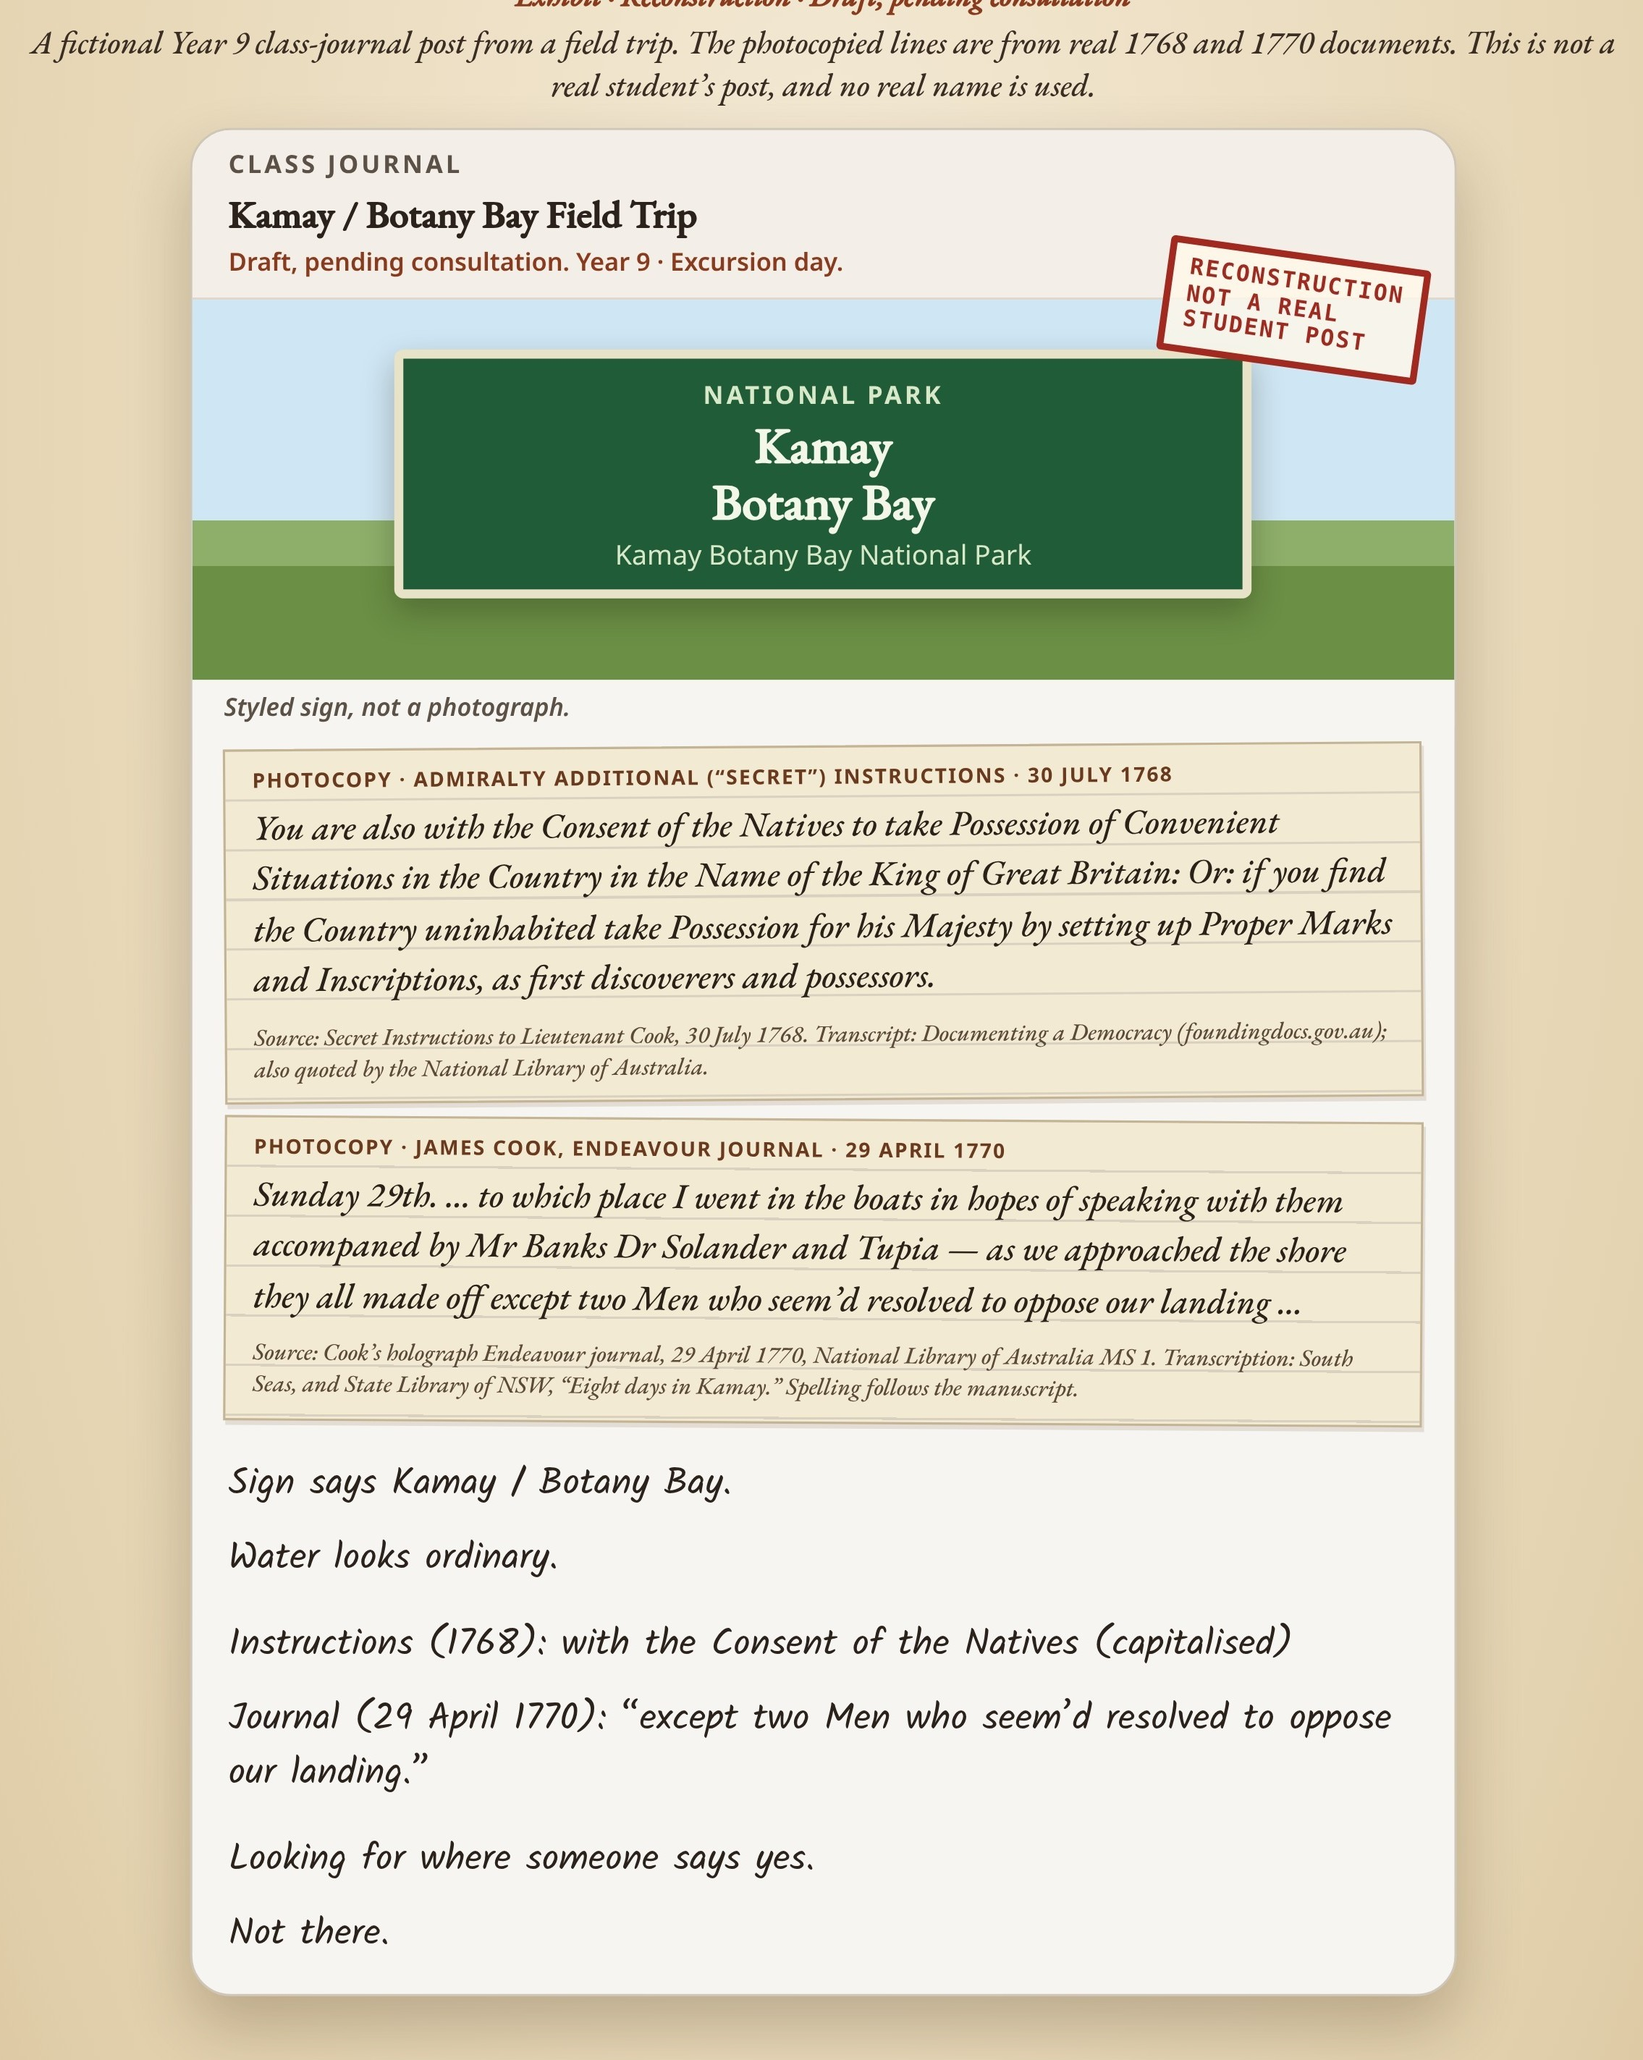
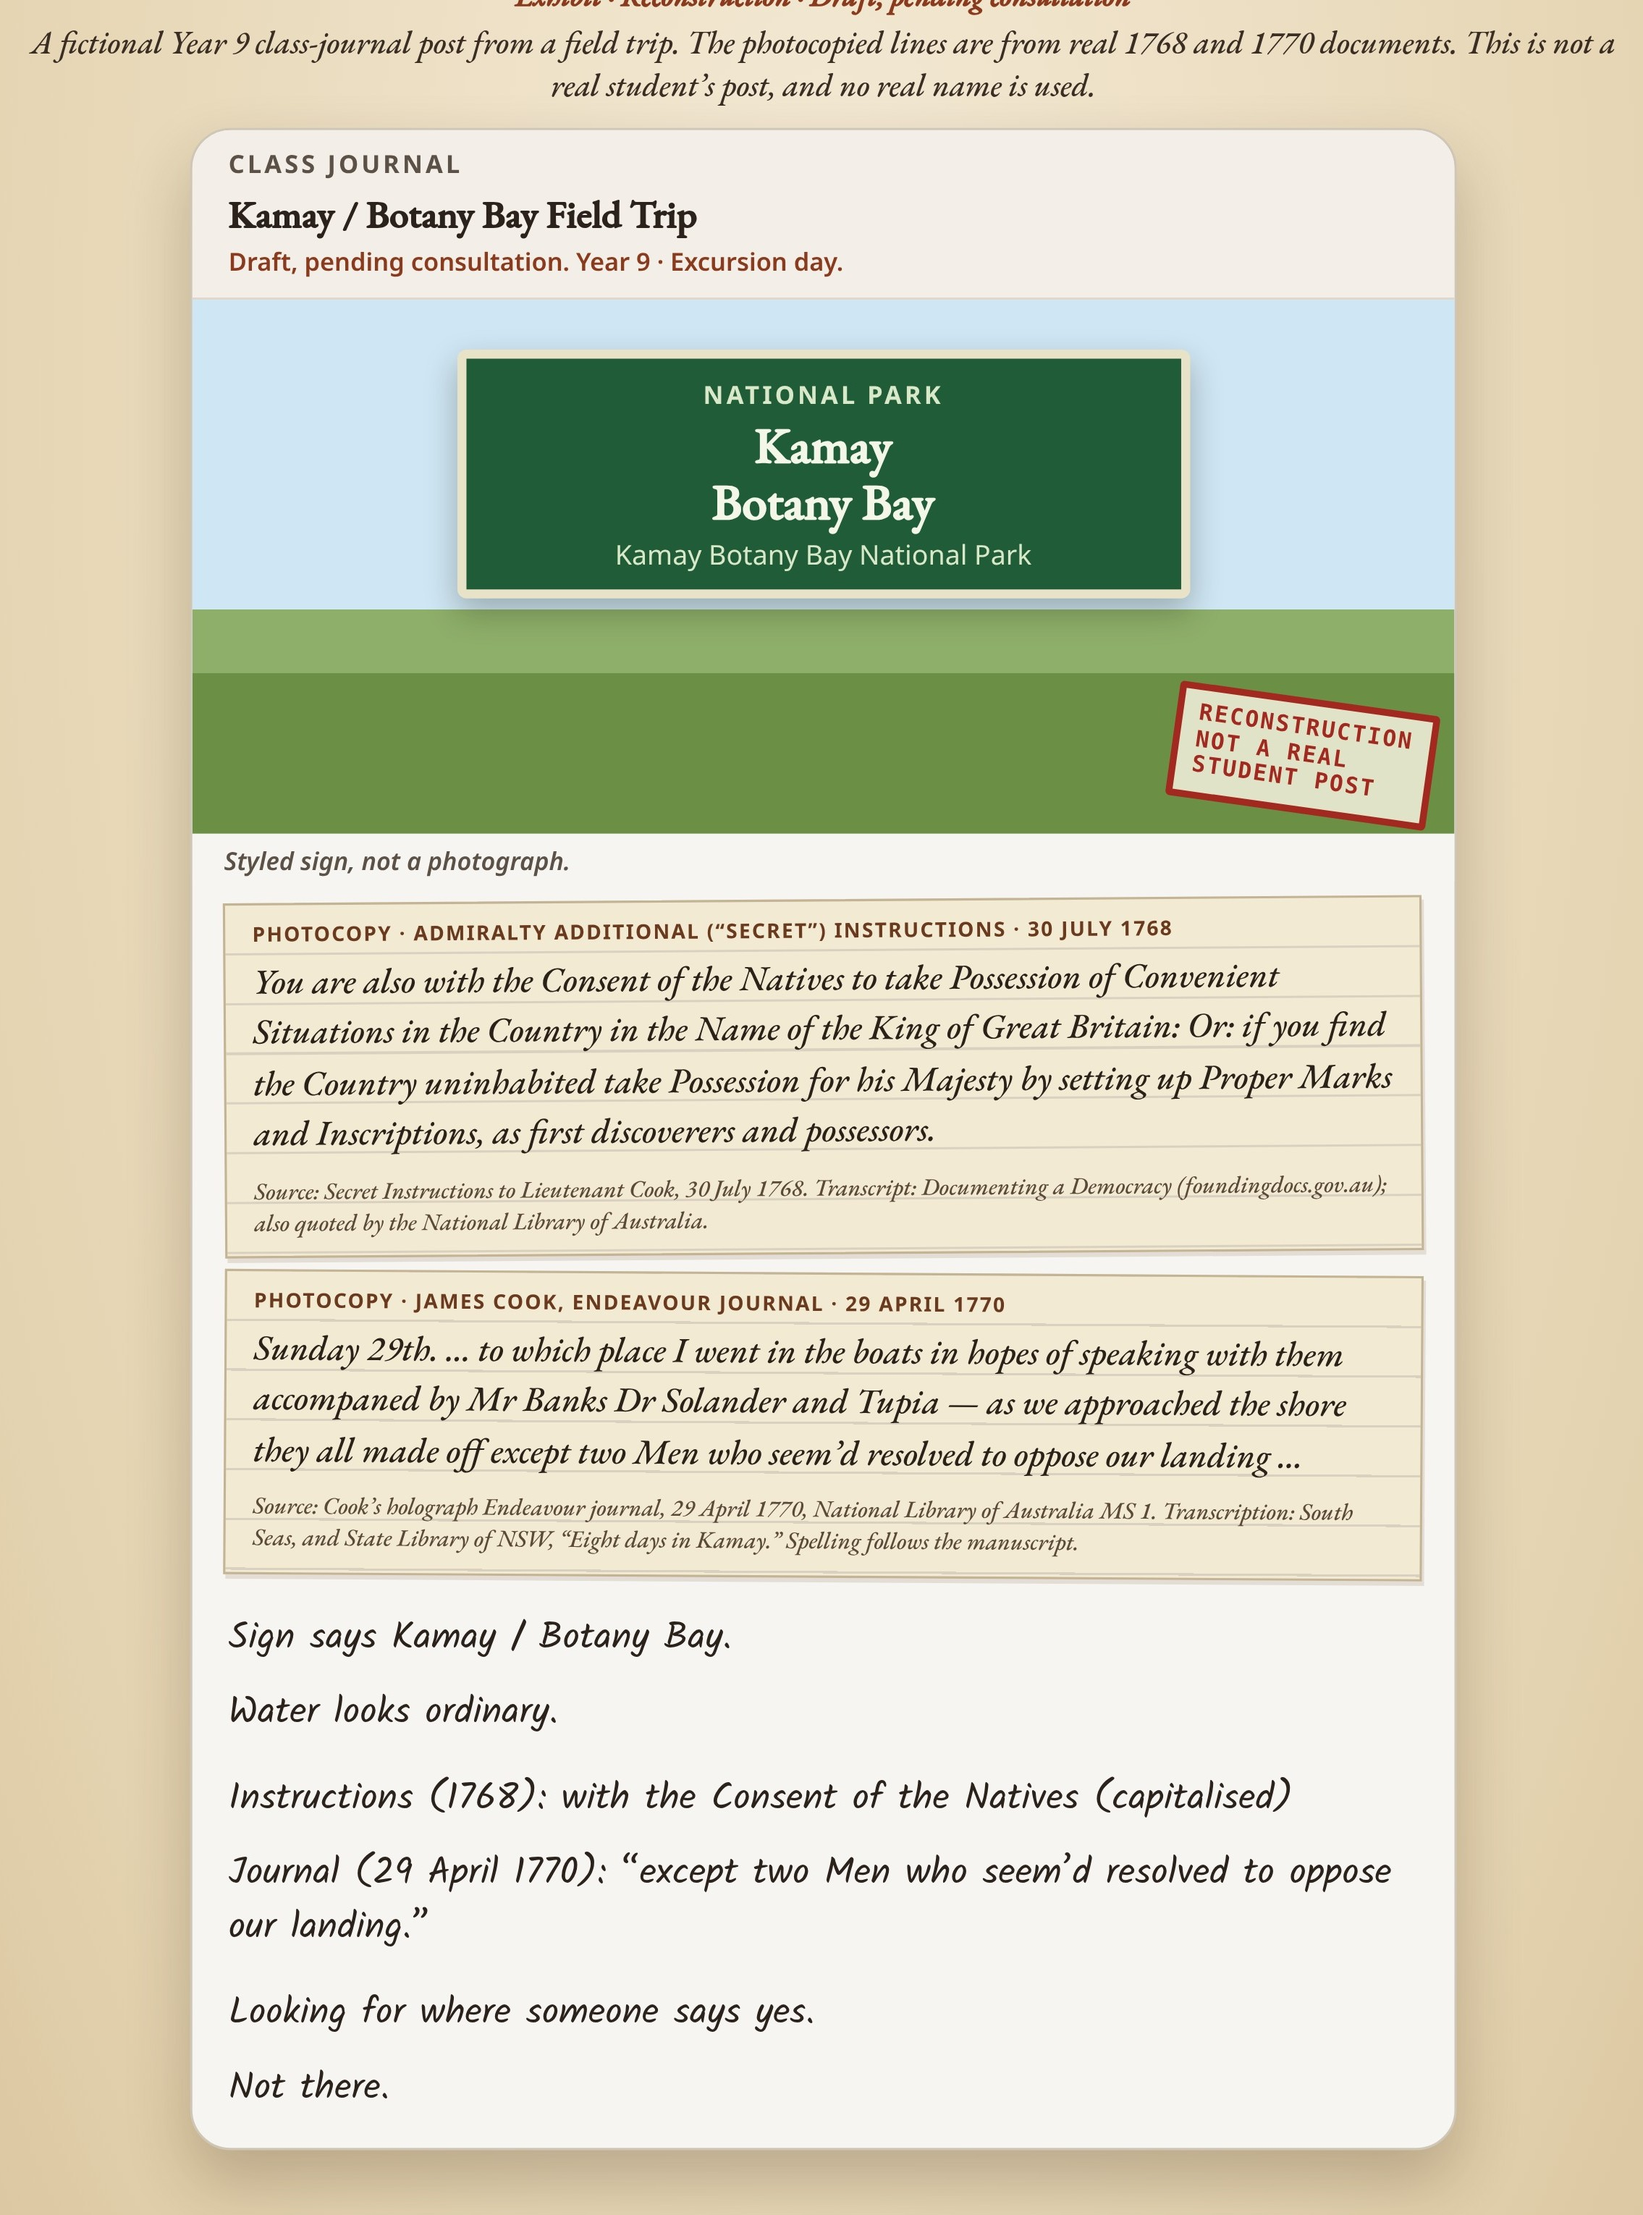
Move the Reconstruction stamp off the class-journal subtitle.
The stamp now sits on the styled sign area, clear of the consultation line and of the sign wording.

Changed region(s): [[0.0308, 0.0, 0.9868, 0.9585]]

diff --git a/index.html b/index.html
@@ -67,13 +67,13 @@
       <p class="lead-ex">A reconstructed class-journal post sits with this opening page. It is fictional, and clearly labelled Reconstruction. The photocopied lines are from real 1768 and 1770 documents. Tap the post to enlarge it.</p>
       <button type="button" class="artefact-zoom" data-full="assets/artefacts/journal-post.jpg" aria-label="Enlarge the reconstructed class-journal post from the Kamay / Botany Bay field trip. Reconstruction, not a real student post.">
         <article class="post" aria-label="Reconstructed class-journal post">
-          <div class="recon-stamp">Reconstruction<br>not a real<br>student post</div>
           <header class="app-bar">
             <p class="app-name">Class journal</p>
             <h1 class="assign">Kamay / Botany Bay Field Trip</h1>
             <p class="draft">Draft, pending consultation. Year 9 · Excursion day.</p>
           </header>
           <figure class="sign-block" aria-label="Styled park sign, not a photograph">
+            <div class="recon-stamp">Reconstruction<br>not a real<br>student post</div>
             <div class="sign">
               <p class="park">National Park</p>
               <p class="title">Kamay<br>Botany Bay</p>

diff --git a/assets/journal-post.css b/assets/journal-post.css
@@ -28,7 +28,7 @@ body.book-page{
   color:#1c1916;
 }
 .recon-stamp{
-  position:absolute;right:14px;top:54px;z-index:3;
+  position:absolute;right:10px;top:auto;bottom:10px;z-index:3;
   border:3px solid #a3281f;color:#a3281f;
   font:700 10px/1.15 ui-monospace,monospace;
   letter-spacing:.08em;text-transform:uppercase;
@@ -53,11 +53,11 @@ body.book-page{
 }
 .sign-block{
   margin:0;padding:0;background:linear-gradient(#cfe6f4 0 58%, #8eaf6a 58% 70%, #6b8f45 70% 100%);
-  min-height:168px;position:relative;
+  min-height:236px;position:relative;
 }
 .sign{
   position:absolute;left:50%;top:22px;transform:translateX(-50%);
-  width:68%;background:#215c38;color:#f4f7e8;
+  width:58%;background:#215c38;color:#f4f7e8;
   border:4px solid #e8e2c8;border-radius:4px;
   box-shadow:0 6px 14px rgba(20,30,10,.28);
   text-align:center;padding:10px 12px 8px;

diff --git a/assets/style.css b/assets/style.css
@@ -279,7 +279,6 @@ body.lightbox-open{overflow:hidden}
 .journal-exhibit .lead-ex{font-size:1.02rem;margin:0 0 1em}
 body:not(.book-page) .book-label,body:not(.book-page) .book-kicker{display:none}
 body:not(.book-page) .post{width:100%;max-width:28rem;margin:0 auto}
-body:not(.book-page) .recon-stamp{top:12px;right:10px}
 .artefact-zoom{display:block;width:100%;margin:0;padding:0;border:0;background:none;cursor:zoom-in;text-align:left;color:inherit;font:inherit}
 .artefact-zoom:focus-visible{outline:3px solid #235e69;outline-offset:3px}
 @media (max-width:520px){
